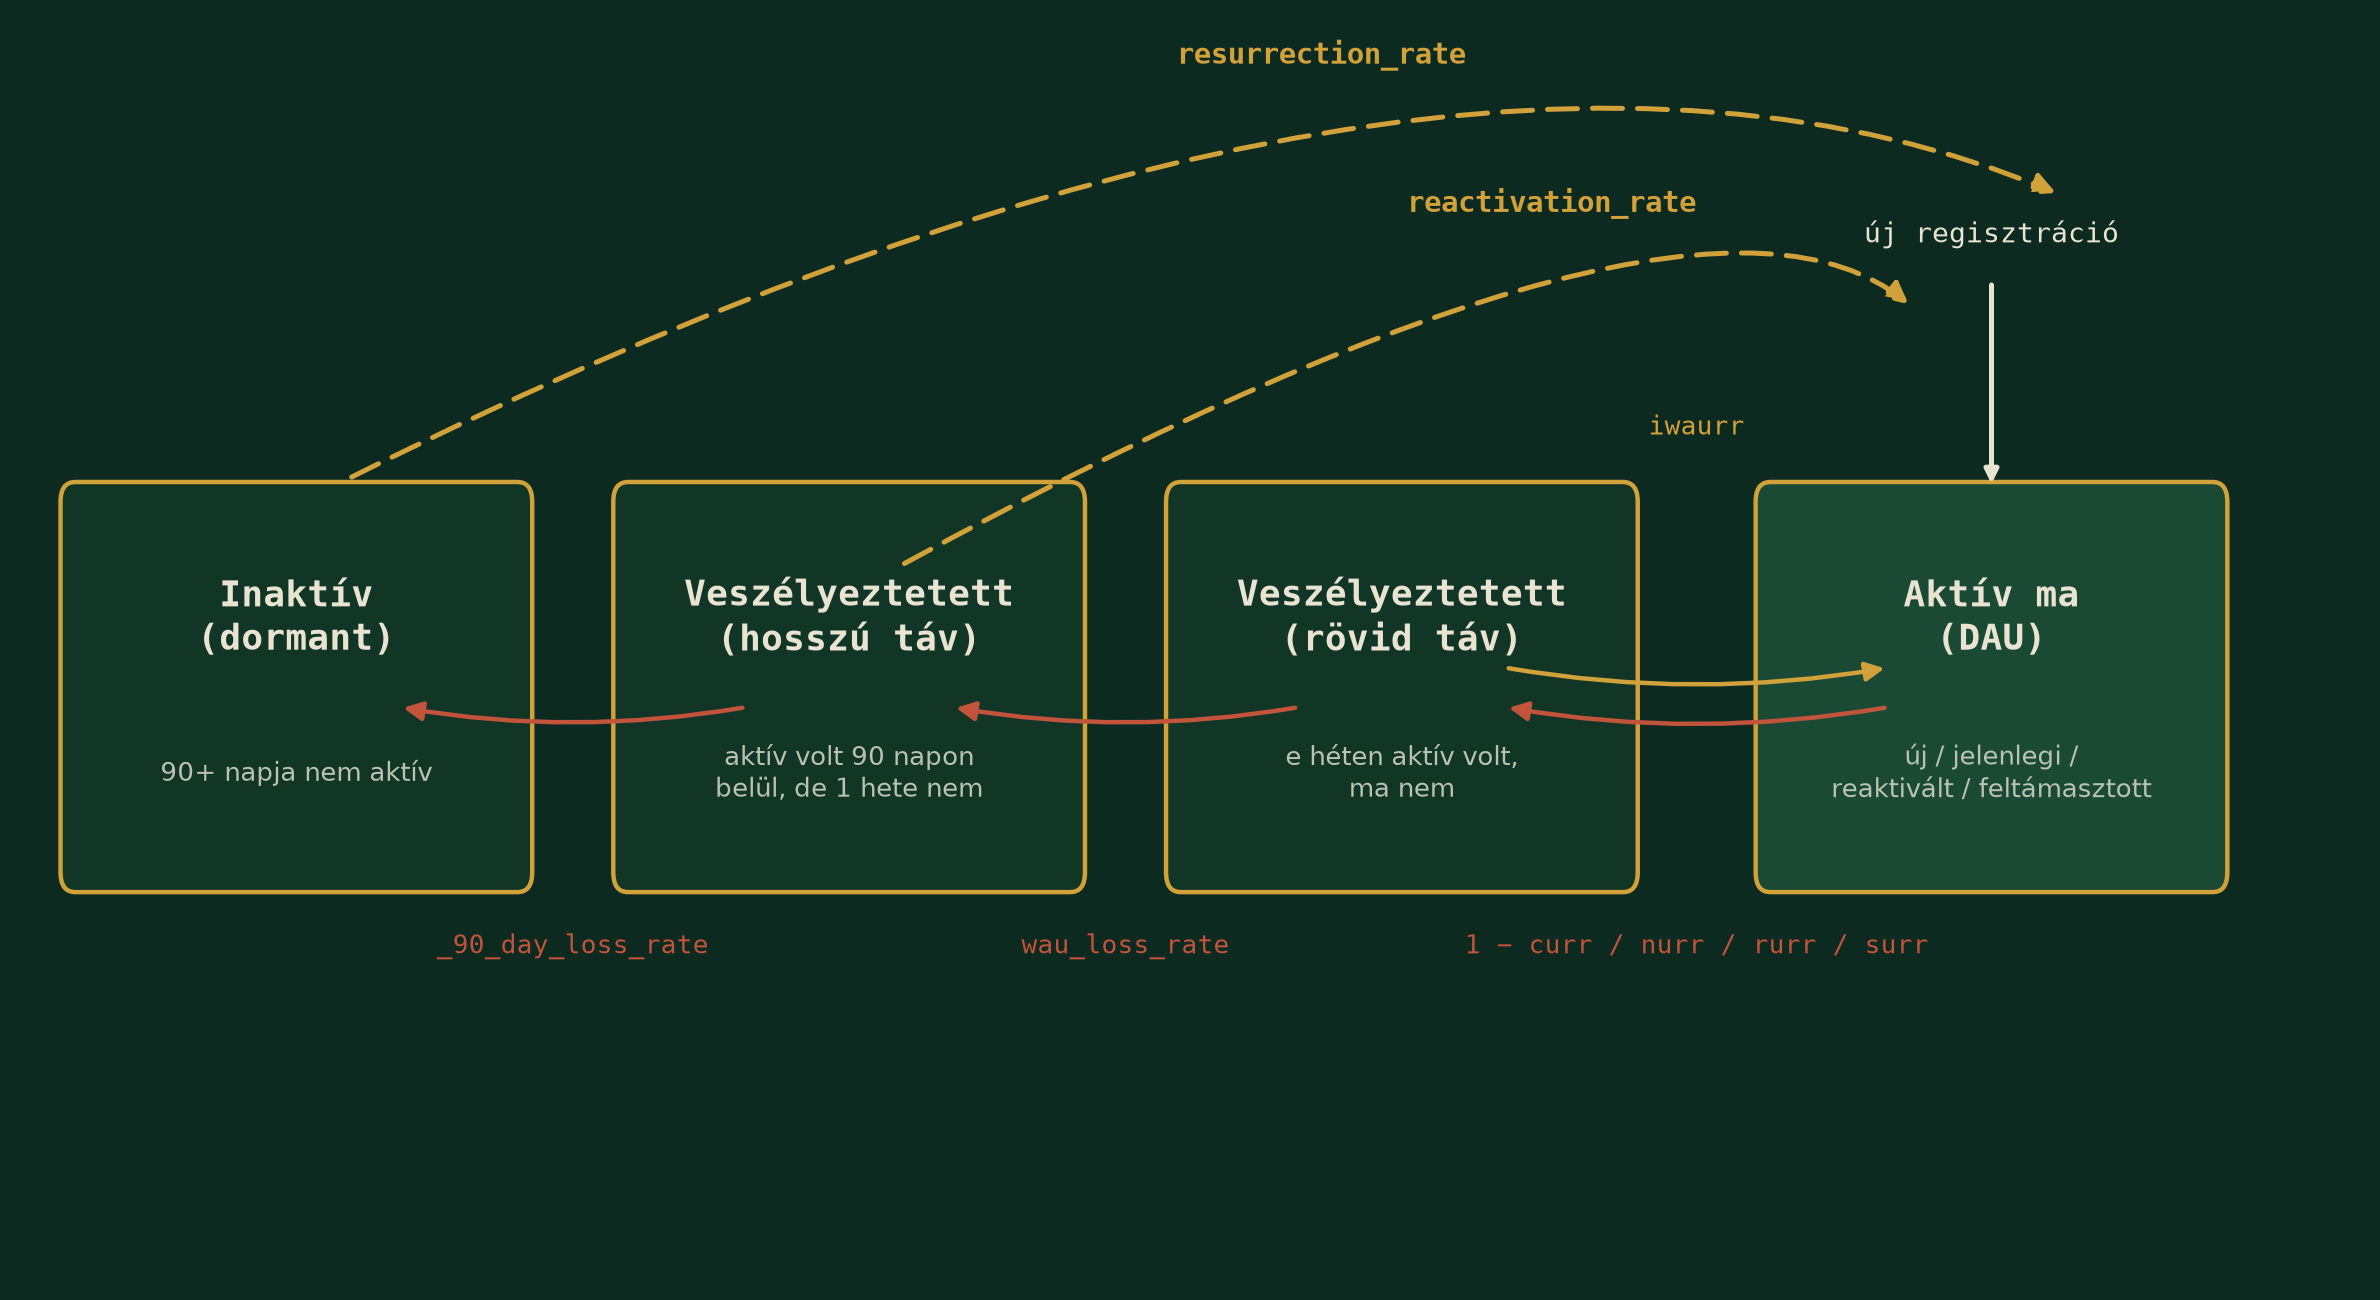
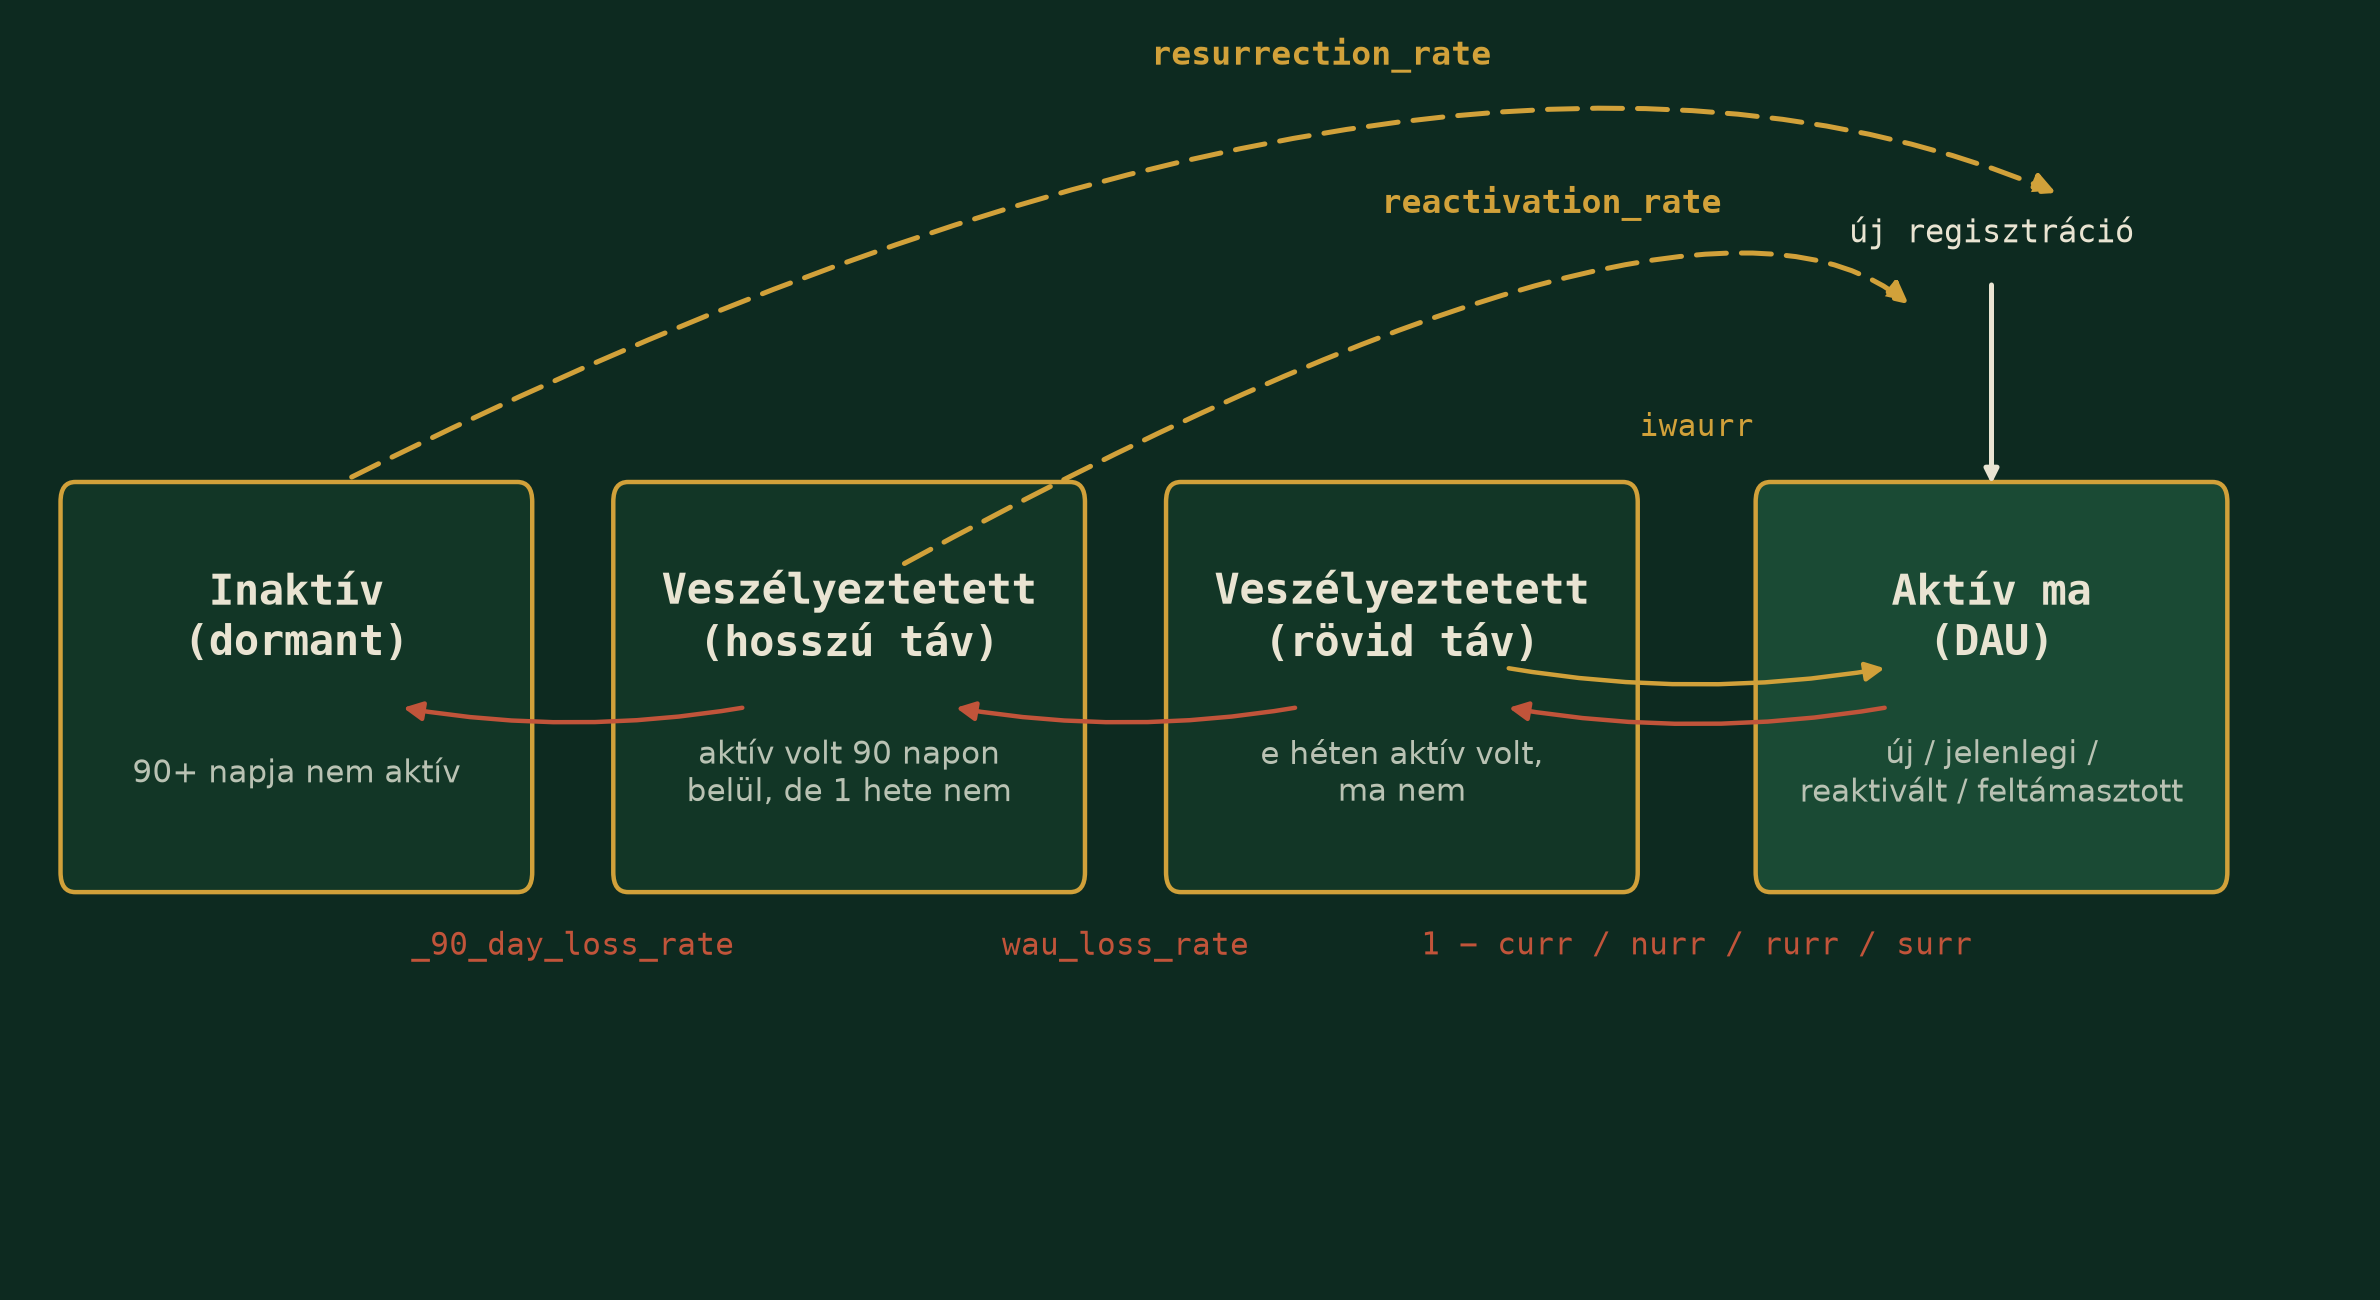
Make the 4-zone Markov diagram bigger on its slide
The 1.83:1 aspect image was width-constrained in the default 48% column,
rendering its internal labels too small to read. Add an opt-in
has-visual--wide layout (62/38 visual/text split, only for slides that use
it) and bump the chart's own font sizes for extra margin.

diff --git a/assets/deck/deck.js b/assets/deck/deck.js
@@ -187,7 +187,13 @@
   function buildSlide(data, index, total) {
     const hasSide = Boolean(data.visual || data.legend);
     const layoutClass =
-      data.visualLayout === "stack" ? " has-visual--stack" : data.visualLayout === "full" ? " has-visual--full" : "";
+      data.visualLayout === "stack"
+        ? " has-visual--stack"
+        : data.visualLayout === "full"
+          ? " has-visual--full"
+          : data.visualLayout === "wide"
+            ? " has-visual--wide"
+            : "";
     const visualClass = hasSide ? " has-visual" + layoutClass : "";
     const slide = el("section", "slide slide--" + data.type + visualClass);
     slide.dataset.index = String(index);

diff --git a/assets/deck/deck.css b/assets/deck/deck.css
@@ -442,6 +442,16 @@ h2.headline {
   max-height: 66vh;
 }
 
+/* "wide": a kep aspect ratio-ja miatt szelesseg-korlatos az 50/50 oszlopban
+   -- ilyenkor a szoveg-oszlop rovasara tobb szelesseget adunk a kepnek. */
+.slide.has-visual--wide .content-col {
+  flex: 1 1 38%;
+}
+
+.slide.has-visual--wide .slide-visual {
+  flex: 1 1 62%;
+}
+
 .slide.has-visual .content-col {
   flex: 1 1 50%;
   min-width: 0;

diff --git a/lectures/01-uzleti-analitika-es-cegertekeles/session-2-forecast-es-ertekeles/slides-data.js b/lectures/01-uzleti-analitika-es-cegertekeles/session-2-forecast-es-ertekeles/slides-data.js
@@ -71,6 +71,7 @@ window.SLIDES = [
     type: "content",
     eyebrow: "Állapottér",
     title: "Négy 'zóna', amiben egy felhasználó lehet",
+    visualLayout: "wide",
     visual: {
       kind: "image",
       src: "../assets/markov_states_diagram.png",

diff --git a/lectures/01-uzleti-analitika-es-cegertekeles/session-2-forecast-es-ertekeles/generate_state_diagram.py b/lectures/01-uzleti-analitika-es-cegertekeles/session-2-forecast-es-ertekeles/generate_state_diagram.py
@@ -52,8 +52,8 @@ for x, title, sub in boxes:
         linewidth=1.6,
     )
     ax.add_patch(box)
-    ax.text(x, y + 0.28, title, ha="center", va="center", fontsize=13, fontweight="bold", color=INK, family="monospace")
-    ax.text(x, y - 0.35, sub, ha="center", va="center", fontsize=9.5, color=INK_DIM)
+    ax.text(x, y + 0.28, title, ha="center", va="center", fontsize=15, fontweight="bold", color=INK, family="monospace")
+    ax.text(x, y - 0.35, sub, ha="center", va="center", fontsize=11, color=INK_DIM)
 
 # ---------- rovid-tavu, szomszedos-zona nyilak (a churn/losing lanc) ----------
 # Ezek mind a "kovetkezo szomszedos zonaba csuszas" iranyat kovetik -- ez az
@@ -78,7 +78,7 @@ for x0, x1, rad, label, pos, color in short_specs:
     ax.add_patch(arrow)
     mid_x = (x0 + x1) / 2
     y_off = 1.05 if pos == "below" else -1.05
-    ax.text(mid_x, y + y_off, label, ha="center", va="center", fontsize=9.5, color=color, family="monospace")
+    ax.text(mid_x, y + y_off, label, ha="center", va="center", fontsize=11, color=color, family="monospace")
 
 # ---------- hosszu-tavu "atugro" nyilak: a visszateres MINDIG kozvetlenul ----------
 # az Aktiv ma allapotba lep, akarhany zonat kell at hozza atugrania -- SOSEM
@@ -112,7 +112,7 @@ for p0, ctrl, p1, label in long_specs:
     )
     ax.add_patch(arrow)
     lx, ly = bezier_point(p0, ctrl, p1, 0.5)
-    ax.text(lx, ly + 0.32, label, ha="center", va="center", fontsize=10.5, color=ACCENT, family="monospace", fontweight="bold")
+    ax.text(lx, ly + 0.32, label, ha="center", va="center", fontsize=12, color=ACCENT, family="monospace", fontweight="bold")
 
 ax.annotate(
     "",
@@ -120,7 +120,7 @@ ax.annotate(
     xytext=(10.2, y + box_h / 2 + 0.9),
     arrowprops=dict(arrowstyle="-|>", color=INK, lw=1.8),
 )
-ax.text(10.2, y + box_h / 2 + 1.05, "új regisztráció", ha="center", fontsize=10, color=INK, family="monospace")
+ax.text(10.2, y + box_h / 2 + 1.05, "új regisztráció", ha="center", fontsize=11.5, color=INK, family="monospace")
 
 ax.set_xlim(-0.5, 12.2)
 ax.set_ylim(-1.9, 3.2)
